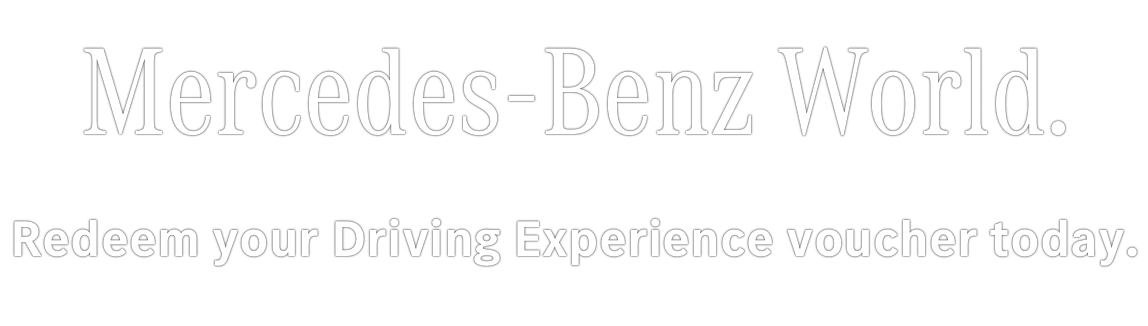
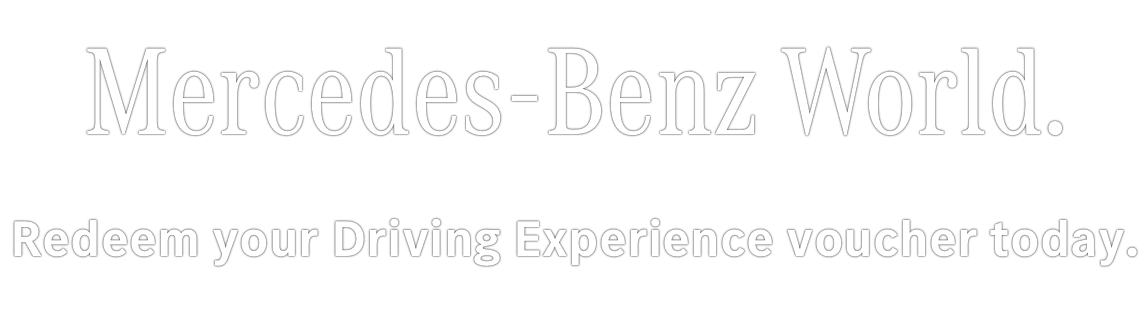
update

Changed region(s): [[0.061, 0.1534, 0.9451, 0.4294]]

diff --git a/complete/mbw/Voucher Redemption Email/index.html b/complete/mbw/Voucher Redemption Email/index.html
@@ -414,7 +414,7 @@
                       <!-- !H1 -->
                       <tr>
                         <td rowspan="2" class="medium-hide" style="width: 10.434782609%" width="10.434782609%">&nbsp;</td>
-                        <td class="padding" colspan="3" align="center" style="padding-top: 10px">
+                        <td class="padding" colspan="3" align="center" style="padding-top: 20px">
                           <div class="mobile-hide">
                             <h1 style="Margin: 0 0 20px; line-height: 1"><img src="images/h1-d@2x.png" alt="Redeem your Driving Experience voucher today." style="display: block; width: 574px; max-width: 100%;" class="full-width" width="574" border="0"></h1>
                           </div>
@@ -629,14 +629,10 @@
                   <![endif]-->
                   <table role="presentation" style="max-width: 690px;border-top: 4px solid #ececec " width="100%" cellspacing="0" cellpadding="0" border="0" bgcolor="#000000">
                     <tbody>
-                      <!-- !Spacer -->
-                      <tr>
-                        <td style="height: 25px">
-                        </td>
-                      </tr>
+
                       <!-- !Social icons -->
                       <tr>
-                        <td style="padding: 0 16px;" class="padding">
+                        <td style="padding: 25px 16px;" class="padding">
                           <table align="left" role="presentation" style="background-color: #000000" width="" cellspacing="0" cellpadding="0" border="0" bgcolor="#000000">
                             <tbody>
                               <tr>
@@ -661,7 +657,7 @@
                       </tr>
                       <!-- !Line -->
                       <tr>
-                        <td style="padding: 25px 16px 20px 16px" class="padding">
+                        <td style="padding: 0px 16px 20px 16px" class="padding">
                           <table role="presentation" class="full-width" width="100%" cellspacing="0" cellpadding="0" border="0">
                             <tbody>
                               <tr>
@@ -673,15 +669,10 @@
                       </tr>
                       <!-- !T&Cs -->
                       <tr>
-                        <td style="padding: 0 16px;" class="padding">
+                        <td style="padding: 0 16px 20px;" class="padding">
                           <p style="font: 11px/16px Arial, Helvetica, sans-serif;   color: #999999; Margin: 0;">
                             Terms and conditions apply, see website for full details.
                           </p>
-                        </td>
-                      </tr>
-                      <!-- !Spacer -->
-                      <tr>
-                        <td style="height: 20px">
                         </td>
                       </tr>
                     </tbody>
